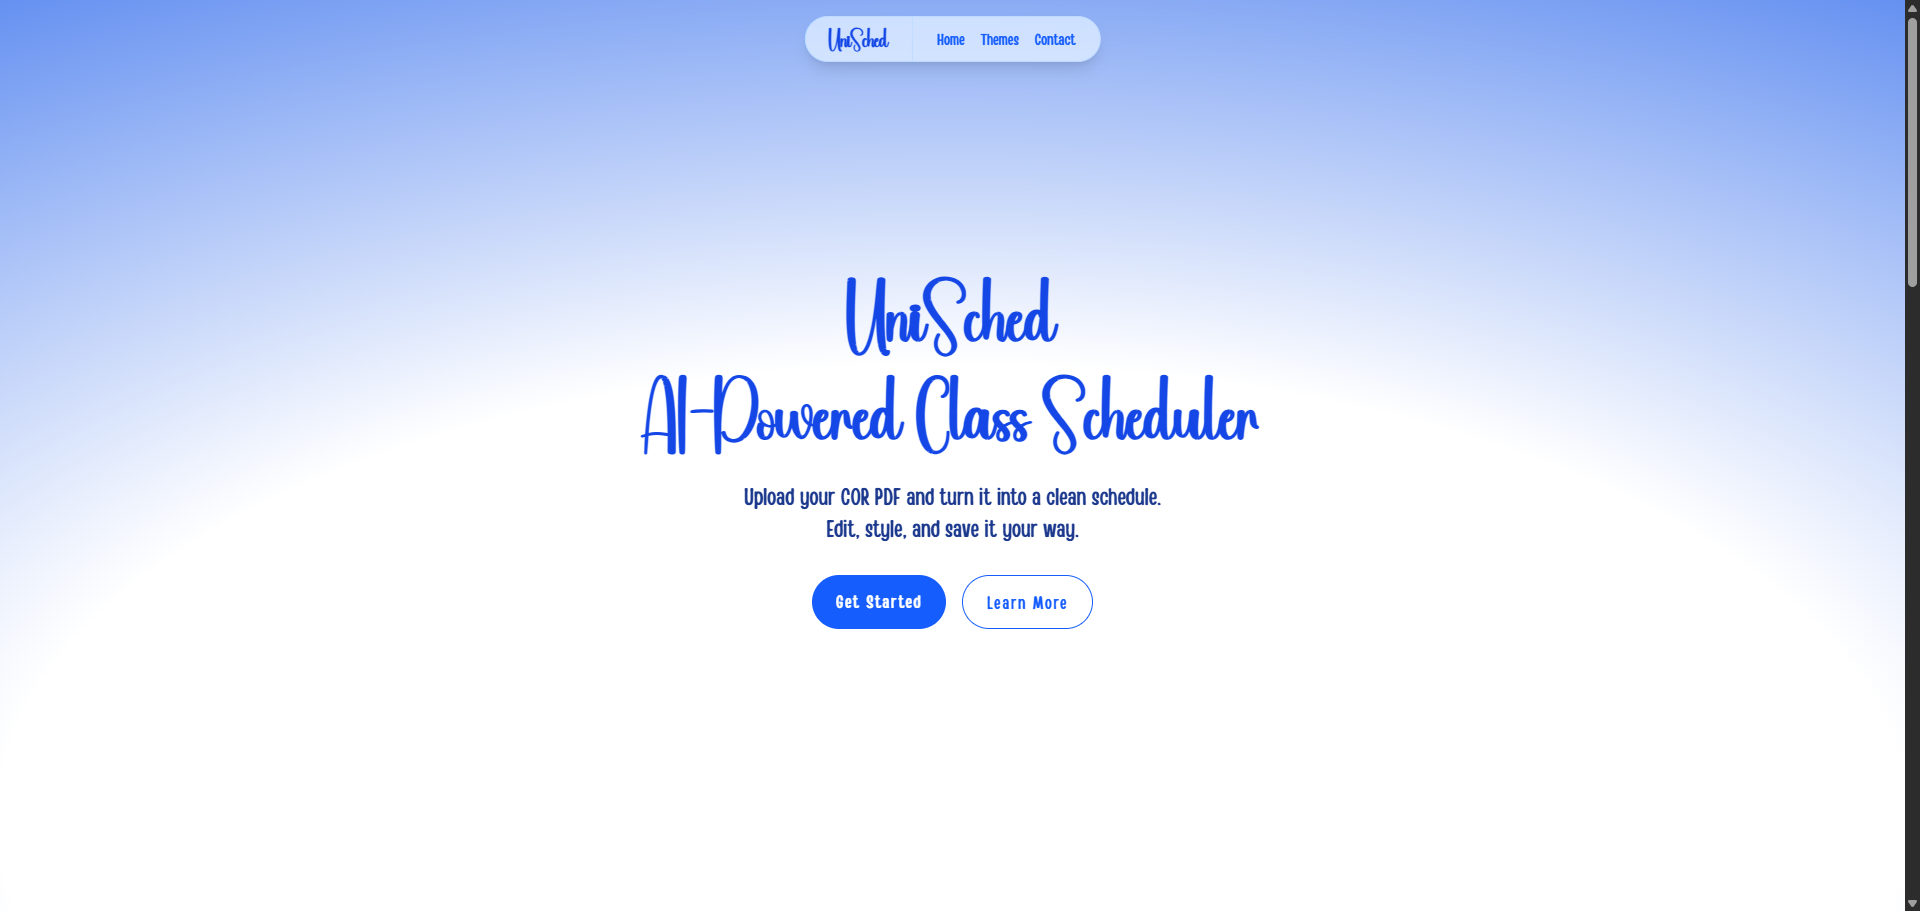
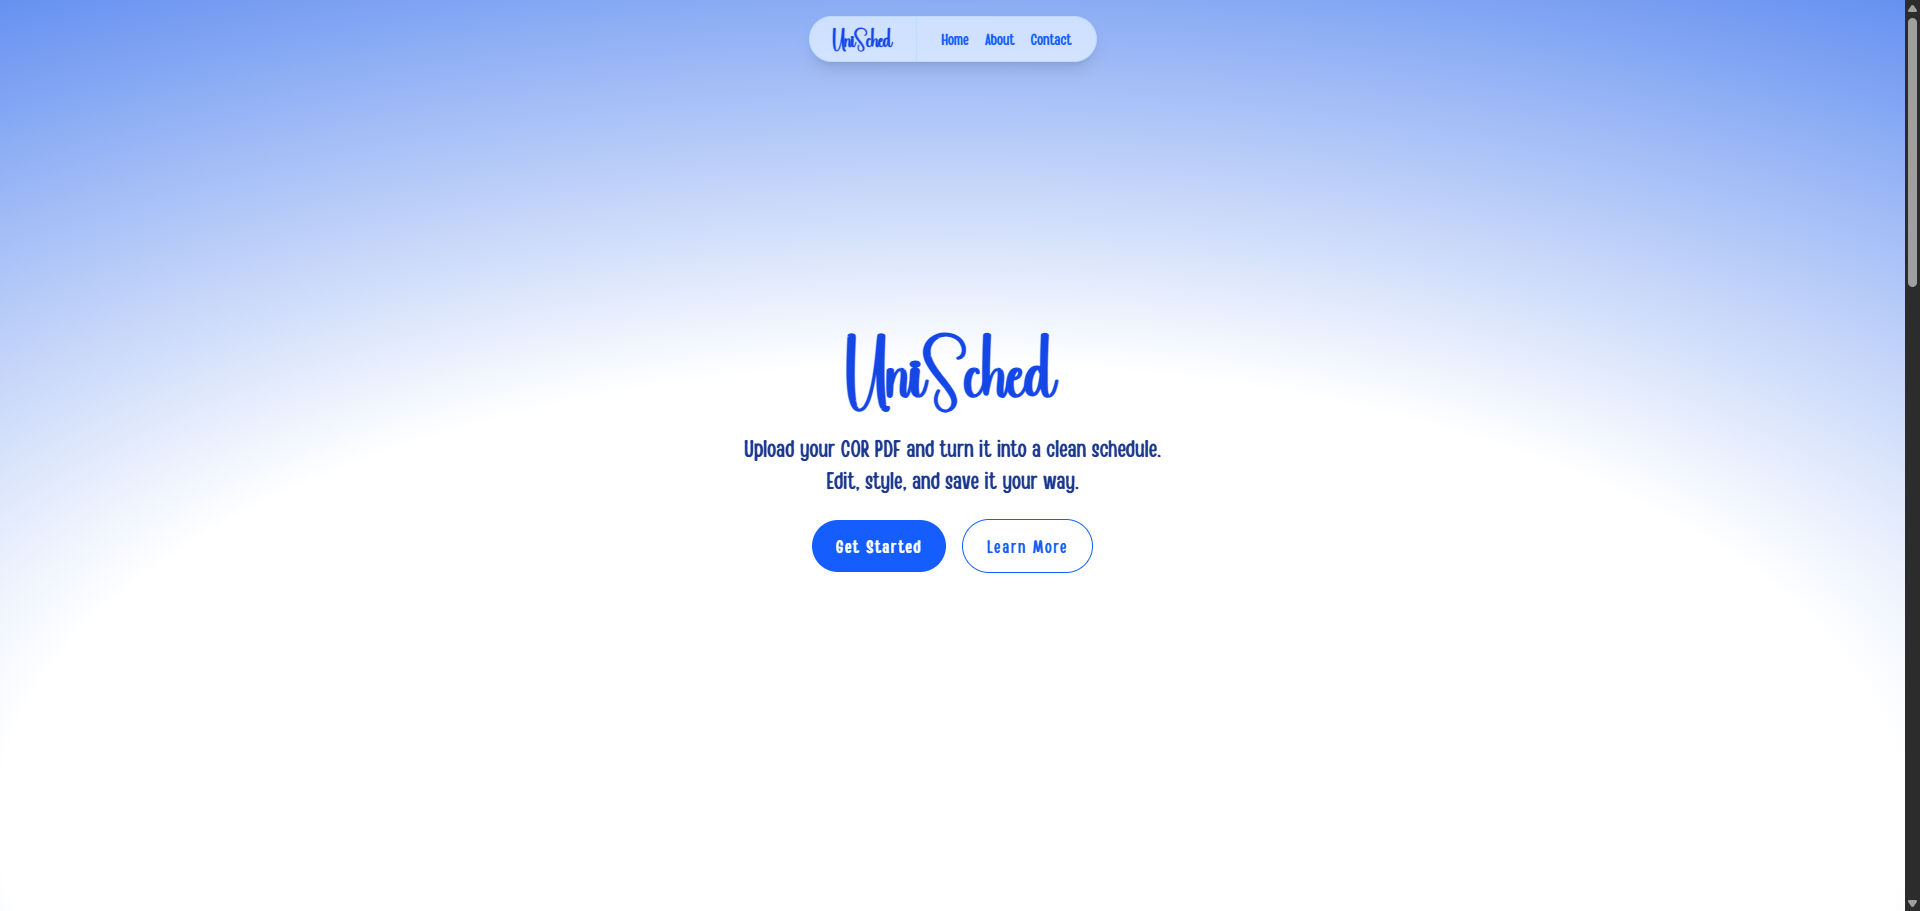
Refactor header section in Home component for improved accessibility and styling

Changed region(s): [[0.3125, 0.3074, 0.6562, 0.7069], [0.4062, 0.0307, 0.5625, 0.0615]]

diff --git a/app/(root)/page.tsx b/app/(root)/page.tsx
@@ -25,22 +25,17 @@ export default function Home() {
         />
 
         <div className="z-10 text-center ">
-          <motion.div
+          <motion.h1
             initial={{ opacity: 0, y: -20 }}
             animate={{ opacity: 1, y: 0 }}
             transition={{ delay: 0.2 }}
-            className="space-y-5 2xl:space-y-8"
+            className="text-5xl 2xl:text-6xl  font-extrabold  font-[family-name:var(--font-apricot)] text-blue-700"
           >
-            <h1 className="text-5xl 2xl:text-6xl font-extrabold  font-[family-name:var(--font-apricot)] text-blue-700">
-              UniSched
-            </h1>
-            <h1 className="text-5xl 2xl:text-6xl font-extrabold leading-18  font-[family-name:var(--font-apricot)] text-blue-700">
-              AI-Powered Class Scheduler
-            </h1>
-          </motion.div>
+            UniSched
+          </motion.h1>
 
           <motion.p
-            className="mt-5 md:mt-7 2xl:mt-8 2xl:text-2xl text-base md:text-xl text-blue-900 font-[family-name:var(--font-handy)]"
+            className="mt-6 md:mt-7 2xl:mt-8 2xl:text-2xl text-base md:text-xl text-blue-900 font-[family-name:var(--font-handy)]"
             initial={{ opacity: 0, y: -10 }}
             animate={{ opacity: 1, y: 0 }}
             transition={{ delay: 0.4 }}
@@ -49,7 +44,7 @@ export default function Home() {
             style, and save it your way.
           </motion.p>
           <motion.div
-            className="mt-5 md:mt-7 2xl:mt-8 flex justify-center gap-4"
+            className="mt-5 md:mt-6  flex  justify-center items-center gap-3 sm:gap-4"
             initial={{ opacity: 0, y: 10 }}
             animate={{ opacity: 1, y: 0 }}
             transition={{ delay: 0.6 }}
